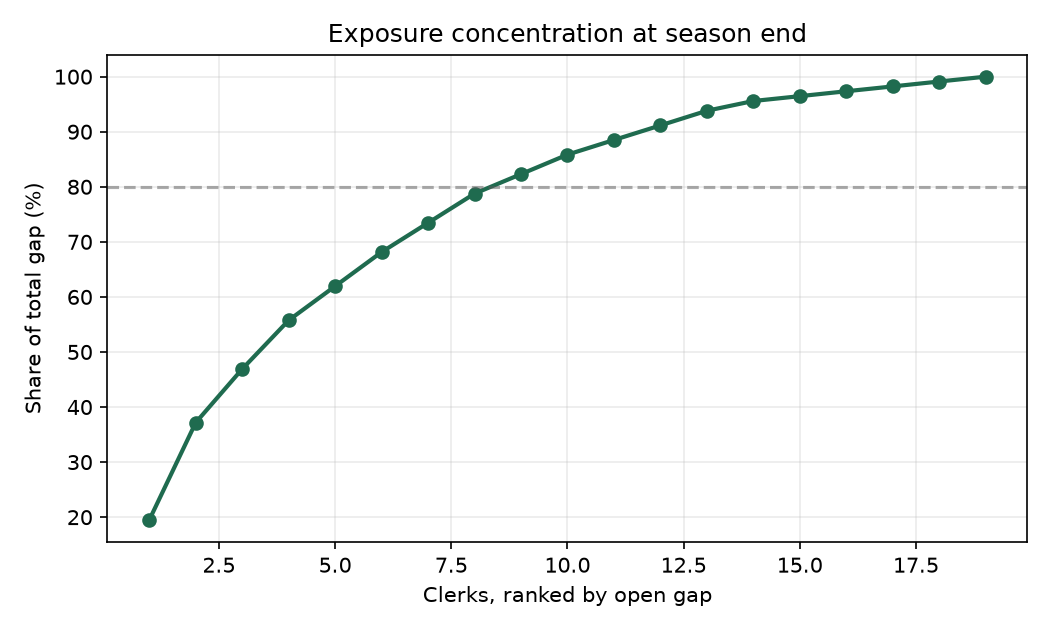
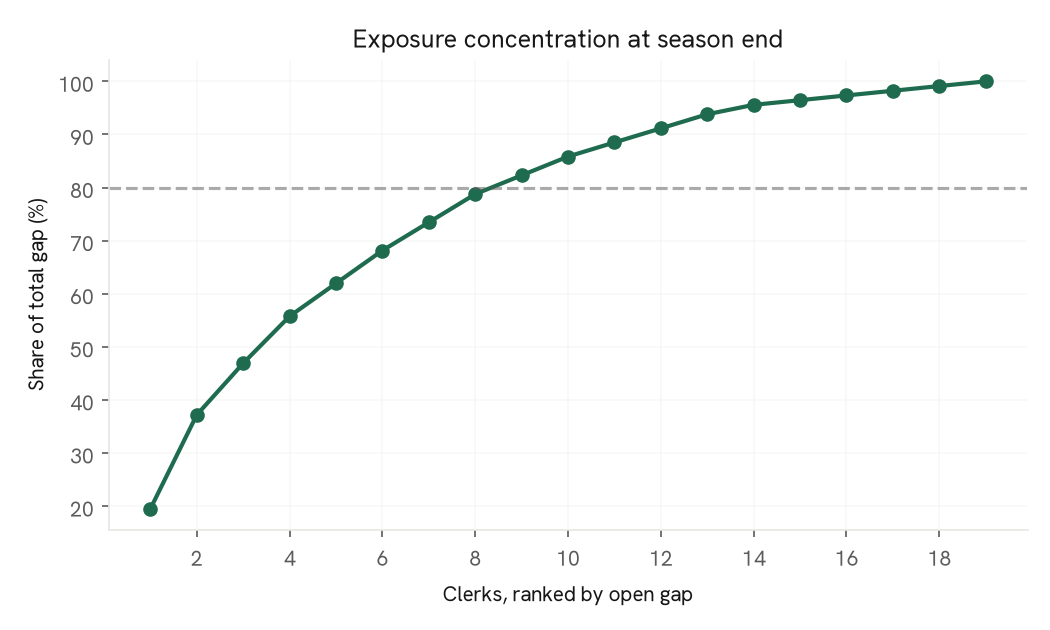
Charts in house style: Hanken Grotesk where installed, ink text, light rules, whole-number ranks

diff --git a/sdpi.py b/sdpi.py
@@ -82,6 +82,15 @@ def figures(weekly, curve, out_dir):
     except ImportError:
         print("\n  (matplotlib not installed -- figures skipped)")
         return
+    from matplotlib import font_manager
+    from matplotlib.ticker import MaxNLocator
+    # House style: Hanken Grotesk where installed, ink text, light rules, brand green.
+    if any(f.name == "Hanken Grotesk" for f in font_manager.fontManager.ttflist):
+        plt.rcParams["font.family"] = "Hanken Grotesk"
+    plt.rcParams.update({"text.color": "#171717", "axes.labelcolor": "#171717",
+                         "axes.edgecolor": "#E6E6E2", "xtick.color": "#5B5B5B",
+                         "ytick.color": "#5B5B5B", "grid.color": "#E6E6E2",
+                         "axes.spines.top": False, "axes.spines.right": False})
     out_dir.mkdir(parents=True, exist_ok=True)
 
     pos = weekly_position(weekly)
@@ -102,6 +111,7 @@ def figures(weekly, curve, out_dir):
             marker="o", lw=2, color="#1F6B4F")
     ax.axhline(80, ls="--", alpha=0.5, color="#5B5B5B")
     ax.set_xlabel("Clerks, ranked by open gap")
+    ax.xaxis.set_major_locator(MaxNLocator(integer=True))
     ax.set_ylabel("Share of total gap (%)")
     ax.set_title("Exposure concentration at season end")
     ax.grid(alpha=0.25); plt.tight_layout()
